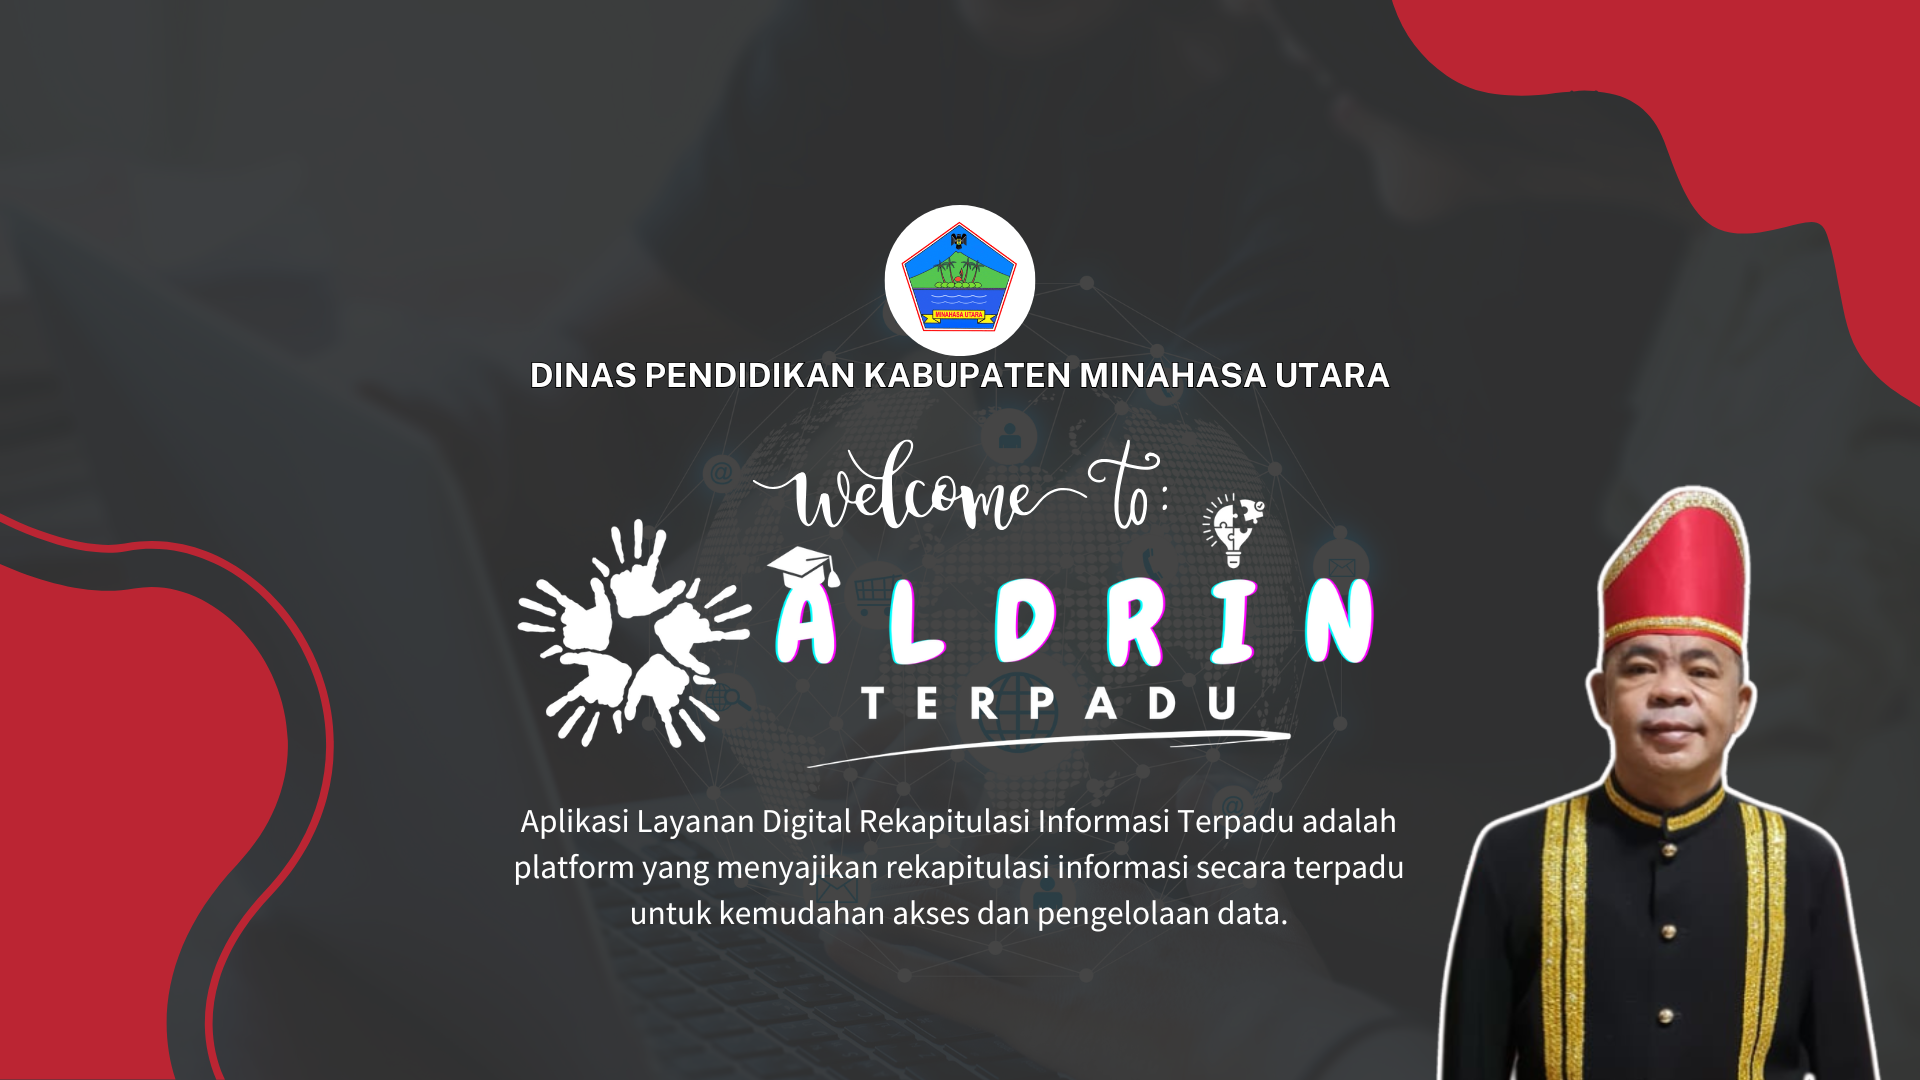
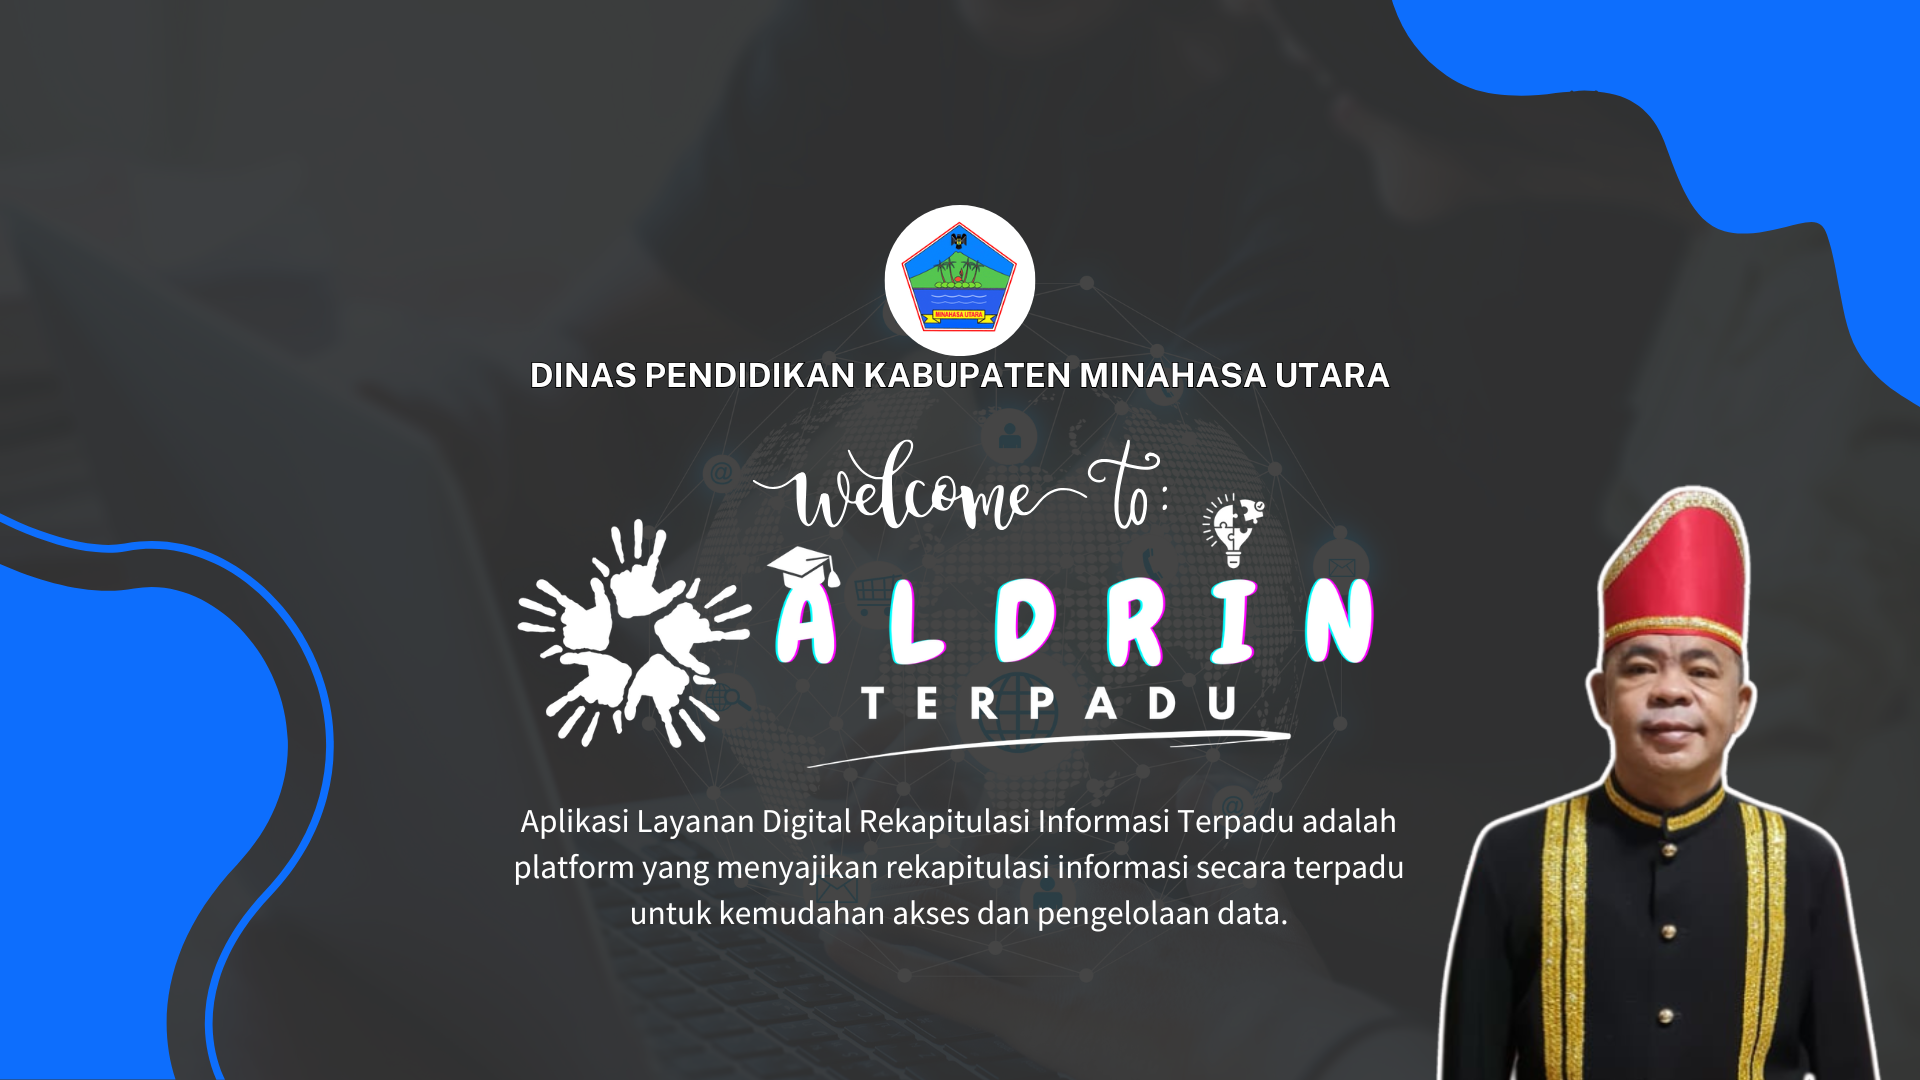
Modified: Update layout for Index

Changed region(s): [[0.0, 0.4583, 0.1875, 1.0], [0.7188, 0.0, 1.0, 0.3667]]

diff --git a/views/index/index.php b/views/index/index.php
@@ -6,14 +6,14 @@ $this->title='ALDRIN TERPADU';
 
 ?>
 <div class="wrapper">
-    <nav class="main-header navbar navbar-expand navbar-danger navbar-danger">
+    <nav class="main-header navbar navbar-expand navbar-primary navbar-primary border-primary">
         <a href="#" class="navbar-brand">
             <img src="<?= Yii::getAlias('@web') ?>/app_logo.png" alt="Logo" class="brand-image w-100">
         </a>
         <div class="collapse navbar-collapse" id="navbarNav">
             <ul class="navbar-nav ml-auto">
                 <li class="nav-item">
-                    <?= Html::a('Masuk', ['/login'], ['class' => 'btn btn-primary']) ?>
+                    <?= Html::a('Masuk', ['/login'], ['class' => 'btn btn-light']) ?>
                 </li>
             </ul>
         </div>
